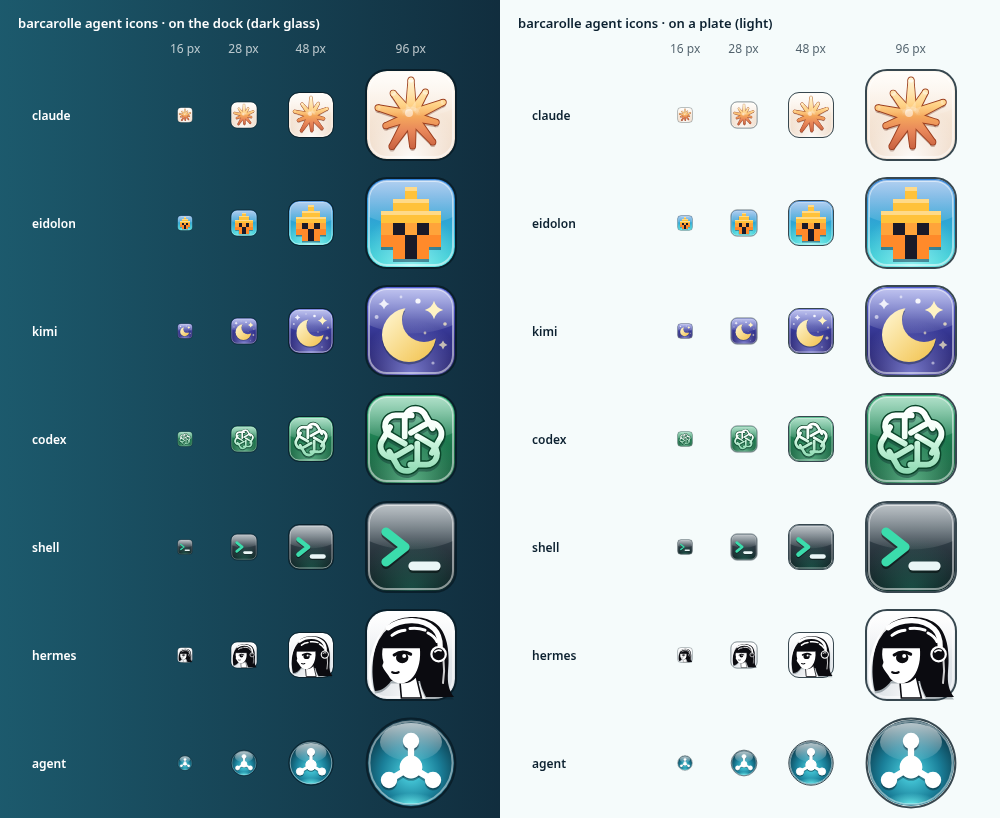
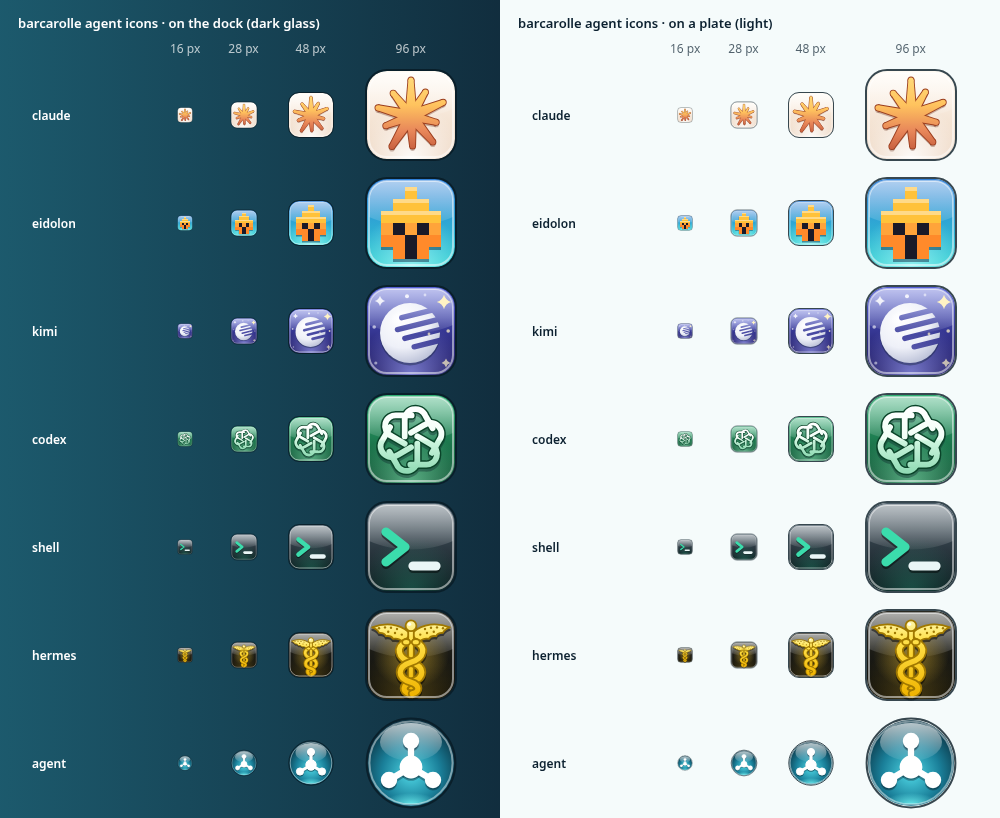
barcarolle: hermes wears its CLI emblem, kimi Moonshot's sliced sphere, claude's spark loses its glare

diff --git a/song/songbook/barcarolle/design/intent.md b/song/songbook/barcarolle/design/intent.md
@@ -99,31 +99,32 @@ contact sheet `agent-icons.png`. One family: a 48×48 glass tile (the
 fallback is an orb), a vertical body gradient in the kind's hue, a bottom
 bounce glow, a curved hard-edged gloss over the top half, a white inner rim
 and a dark outer rim. The mark sits above the gloss with a 1.2px dark drop so
-it holds at 16px. Three kinds wear their own marks, drawn here from memory
-as plain geometry: claude after Anthropic's Claude spark and codex after the
-OpenAI blossom (trademarks, used on the user's own desktop by the user's
-ruling), eidolon after its own helmet figure (the user's project), and
-hermes after Hermes Agent's mascot from the user's reference. kimi keeps an
-original crescent as a stand-in for Moonshot's mark. shell and agent are
-original.
+it holds at 16px. Five kinds wear their owners' marks, drawn here as plain
+geometry: claude after Anthropic's Claude spark and codex after the OpenAI
+blossom, both from memory, and kimi after Moonshot AI's mark from the user's
+reference (trademarks, used on the user's own desktop by the user's ruling);
+eidolon after its own helmet figure (the user's project); hermes after
+Hermes Agent's CLI emblem (Nous Research), from the user's screenshot. shell
+and agent are original.
 
 | kind | mark | body (top → bottom) | mark colour |
 |---|---|---|---|
-| claude | Claude's spark: ten tapered rays of uneven length and width with rounded tips around a small centre, as polished glass: a terracotta rim, a hard-stop bevel over the top half, a warm glow behind the centre | cream `#fffaf2` → `#ecd3bd` | golden amber `#ffd877` → `#ffc35e` → coral `#e8875a` → terracotta `#c2593a`, rim `#9a3d1e`, glow `#ffd27a` |
+| claude | Claude's spark: ten tapered rays of uneven length and width with rounded tips around a small centre, as smooth warm metal with no shine stripe: a thin terracotta rim, a warm glow behind the centre | cream `#fffaf2` → `#ecd3bd` | golden amber `#ffd877` → `#ffc35e` → coral `#e8875a` → terracotta `#c2593a`, rim `#9a3d1e`, glow `#ffd27a` |
 | eidolon | eidolon's helmet figure, a Corinthian helmet front-on in hard pixel blocks on a 6-unit grid (2px at 16): crest, crown, brow, eye slit split by the nasal, two cheek guards | the wordmark's blue `#2f7fd8` → cyan `#2ecfcf` | yellow `#ffc23a` → amber `#ffa43a` → orange `#ff8a2a`, interior `#1a1a28` |
-| kimi | a crescent moon (stand-in for Moonshot's mark) in a sparse starfield: three 4-point twinkles and a scatter of dots of uneven size and brightness | indigo `#5560d6` → night `#170f52` | moon pale gold `#fff8d6` → `#f2c14a`; stars pale gold `#fff3c4` and white |
+| kimi | Moonshot AI's mark: a glossy sphere sliced by four diagonal bands that enter from the right at staggered lengths, the left of the disc solid; the bands are cut through, so the night tile shows in them; a sparse starfield around: three 4-point twinkles and a scatter of dots of uneven size and brightness | indigo `#5560d6` → night `#170f52` | sphere white → `#eef0f8` → `#b9bfd6` with a highlight; stars pale gold `#fff3c4` and white |
 | codex | the OpenAI blossom, six rounded links around a hexagonal eye, in glossy glass | green `#2fae72` → `#0c4a2e` | white → `#f0fff6`, hard stop, `#cdf5df` → `#93dcb6`, rim `#0a4429` |
 | shell | the `>_` prompt | graphite `#4e5f6b` → `#0b1419` | base0B `>`, plate-white `_` |
-| hermes | Hermes Agent's mascot as black-and-white ink, head and shoulders in three-quarter view: a black bob with a blunt fringe and white specular streaks, a white headband with an earpiece, one large dark eye with a highlight and lashes, small lips | pearl `#ffffff` → `#c9d1d8` | ink `#0b0b10`, white |
+| hermes | Hermes Agent's CLI emblem: a staff with spread wings and a knob at the top and two serpents coiling down it, heads meeting under the wings; a few dots on the wings hint at the CLI's braille texture; a warm glow behind | near-black `#2a2a22` → `#0b0b08` | gold `#fff6a8` → `#ffe14a` → `#f0b400`, shading and dots `#a07800` |
 | agent | a glass orb holding a node and three satellites | base0C `#4fd8e6` → `#0a3242` | white |
 
 claude's golden spark sits on a cream tile: on a gold tile the rays sink
 into the ground at 16px, on cream they hold. kimi sits on indigo so its tile
-never reads as eidolon's blue at 16px. At 16px only the brightest kimi
-stars survive; the crescent carries the read. hermes sits on pearl, like
-the reference's white ground: it is the only monochrome icon, so it stays
-distinct at 16px, where the black bob and the white headband carry it. An unknown kind takes `agent`. Gradient ids are
-prefixed with the kind, so all seven inline together without collision.
+never reads as eidolon's blue at 16px; at 16px the sliced disc keeps two or
+three bands and only the brightest star survives. At 16px hermes reads as a
+gold winged staff and the coils simplify to bumps; its dark tile keeps the
+gold apart from claude's spark on cream. An unknown kind takes `agent`.
+Gradient ids are prefixed with the kind, so all seven inline together
+without collision.
 
 ## Palette tokens used
 

diff --git a/song/songbook/barcarolle/design/ASSETS.md b/song/songbook/barcarolle/design/ASSETS.md
@@ -15,12 +15,14 @@
   each differs from its closest original by RMSE ≈ 0.11, so expect a re-grade
   or re-crop. The source match is by image comparison against the zip's
   contents; each matched its listed original more closely than any other.
-- `../icons/agents/{kimi,shell,agent}.svg` are original drawings made here
-  for this song; no vendor logo is reproduced, traced or imitated. kimi's
-  crescent is a stand-in, not Moonshot's mark.
-- `../icons/agents/hermes.svg` is drawn here after Hermes Agent's mascot
-  (Nous Research), from a reference image the user supplied; it is used on
-  the user's own desktop.
+- `../icons/agents/{shell,agent}.svg` are original drawings made here for
+  this song; no vendor logo is reproduced, traced or imitated.
+- `../icons/agents/kimi.svg` is drawn here after Moonshot AI's mark, from a
+  reference image the user supplied. The mark is Moonshot AI's trademark; it
+  is used on the user's own desktop by the user's ruling.
+- `../icons/agents/hermes.svg` is drawn here after Hermes Agent's CLI emblem
+  (Nous Research), from a screenshot the user supplied; it is used on the
+  user's own desktop.
 - `../icons/agents/claude.svg` and `../icons/agents/codex.svg` are drawn
   here, from memory as plain vector geometry, after Anthropic's Claude spark
   and the OpenAI blossom. Both marks are their owners' trademarks; they are
